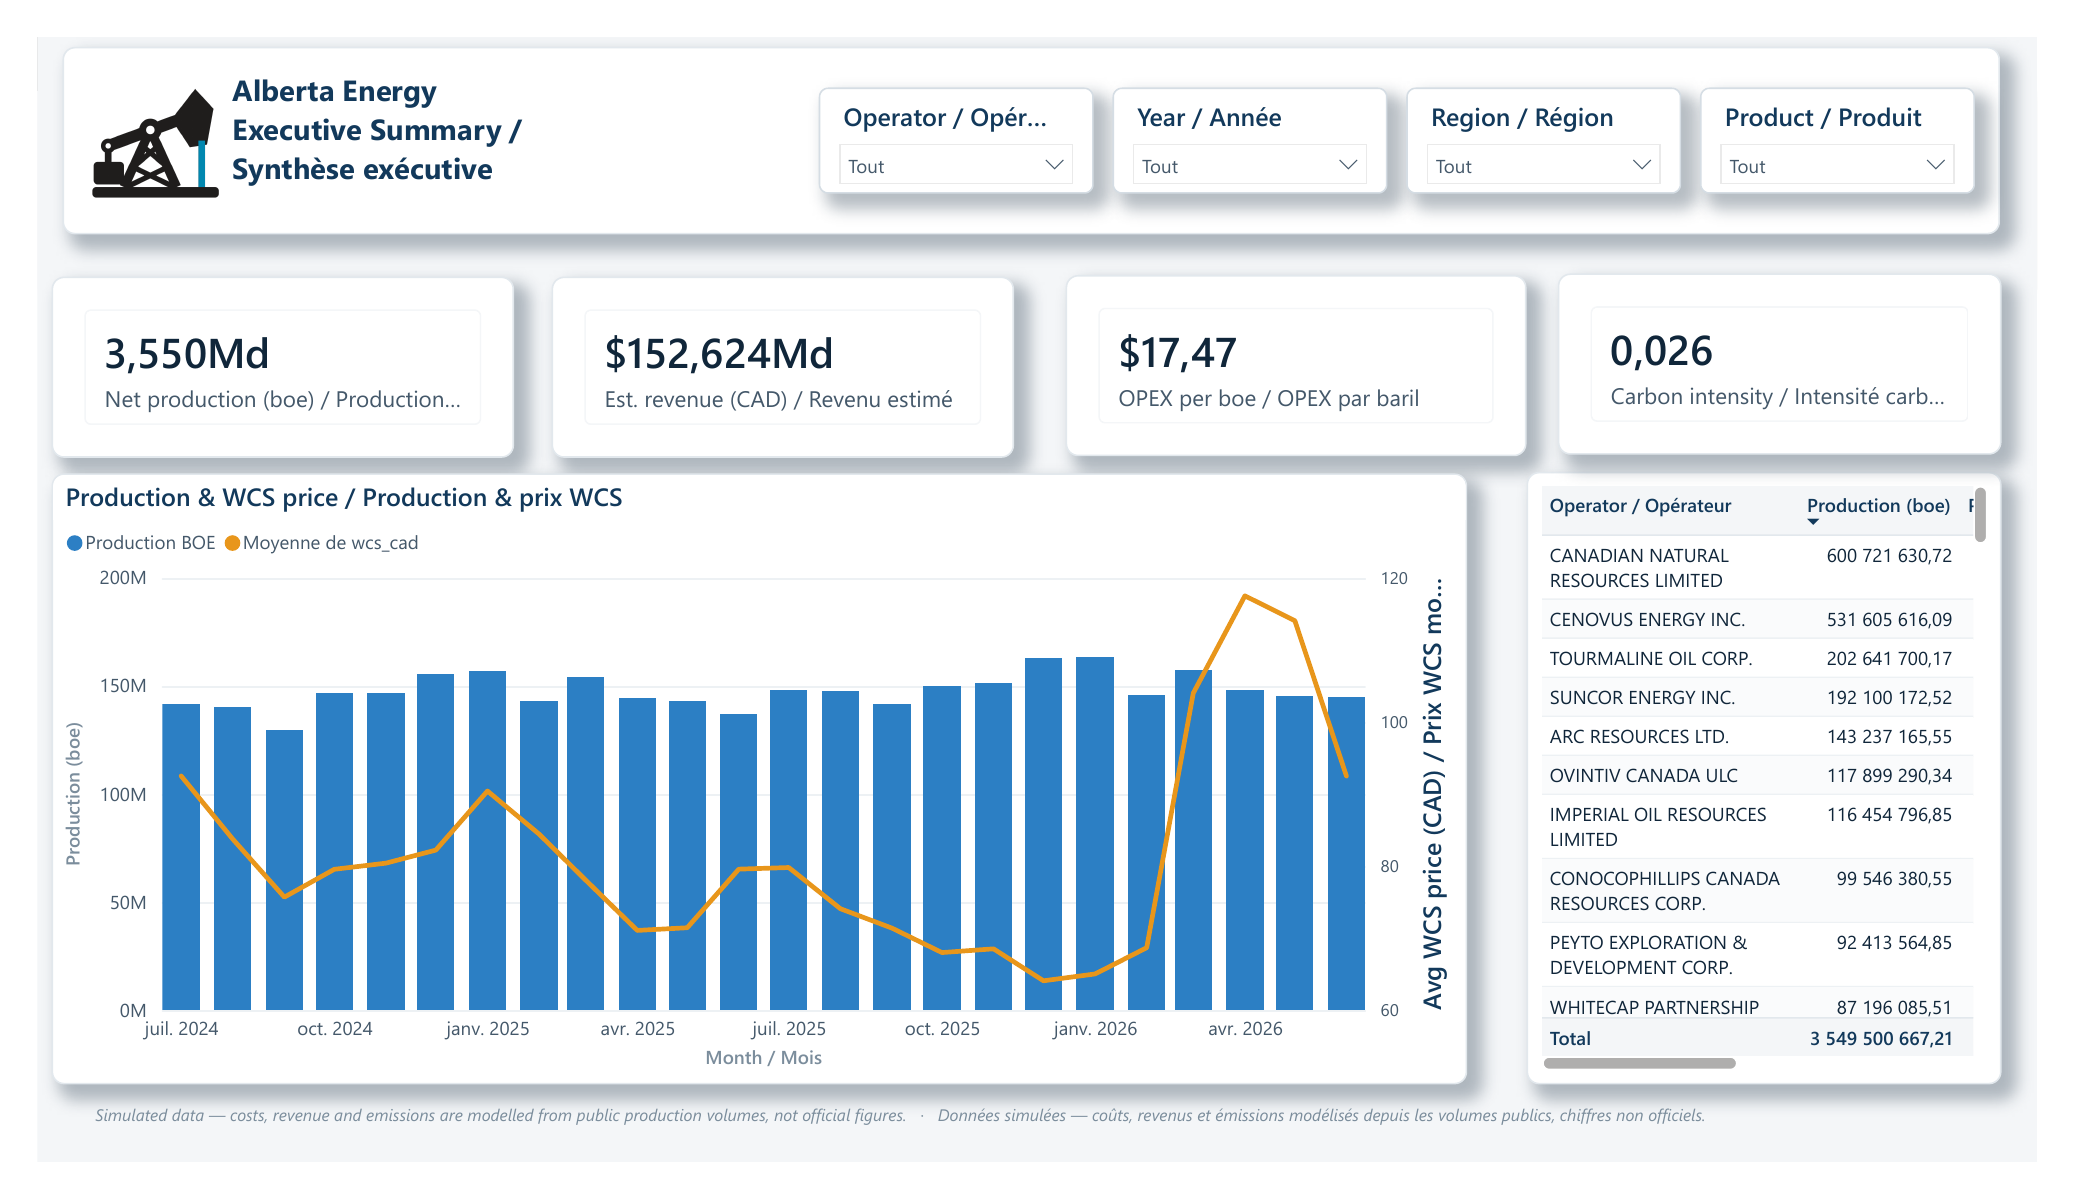
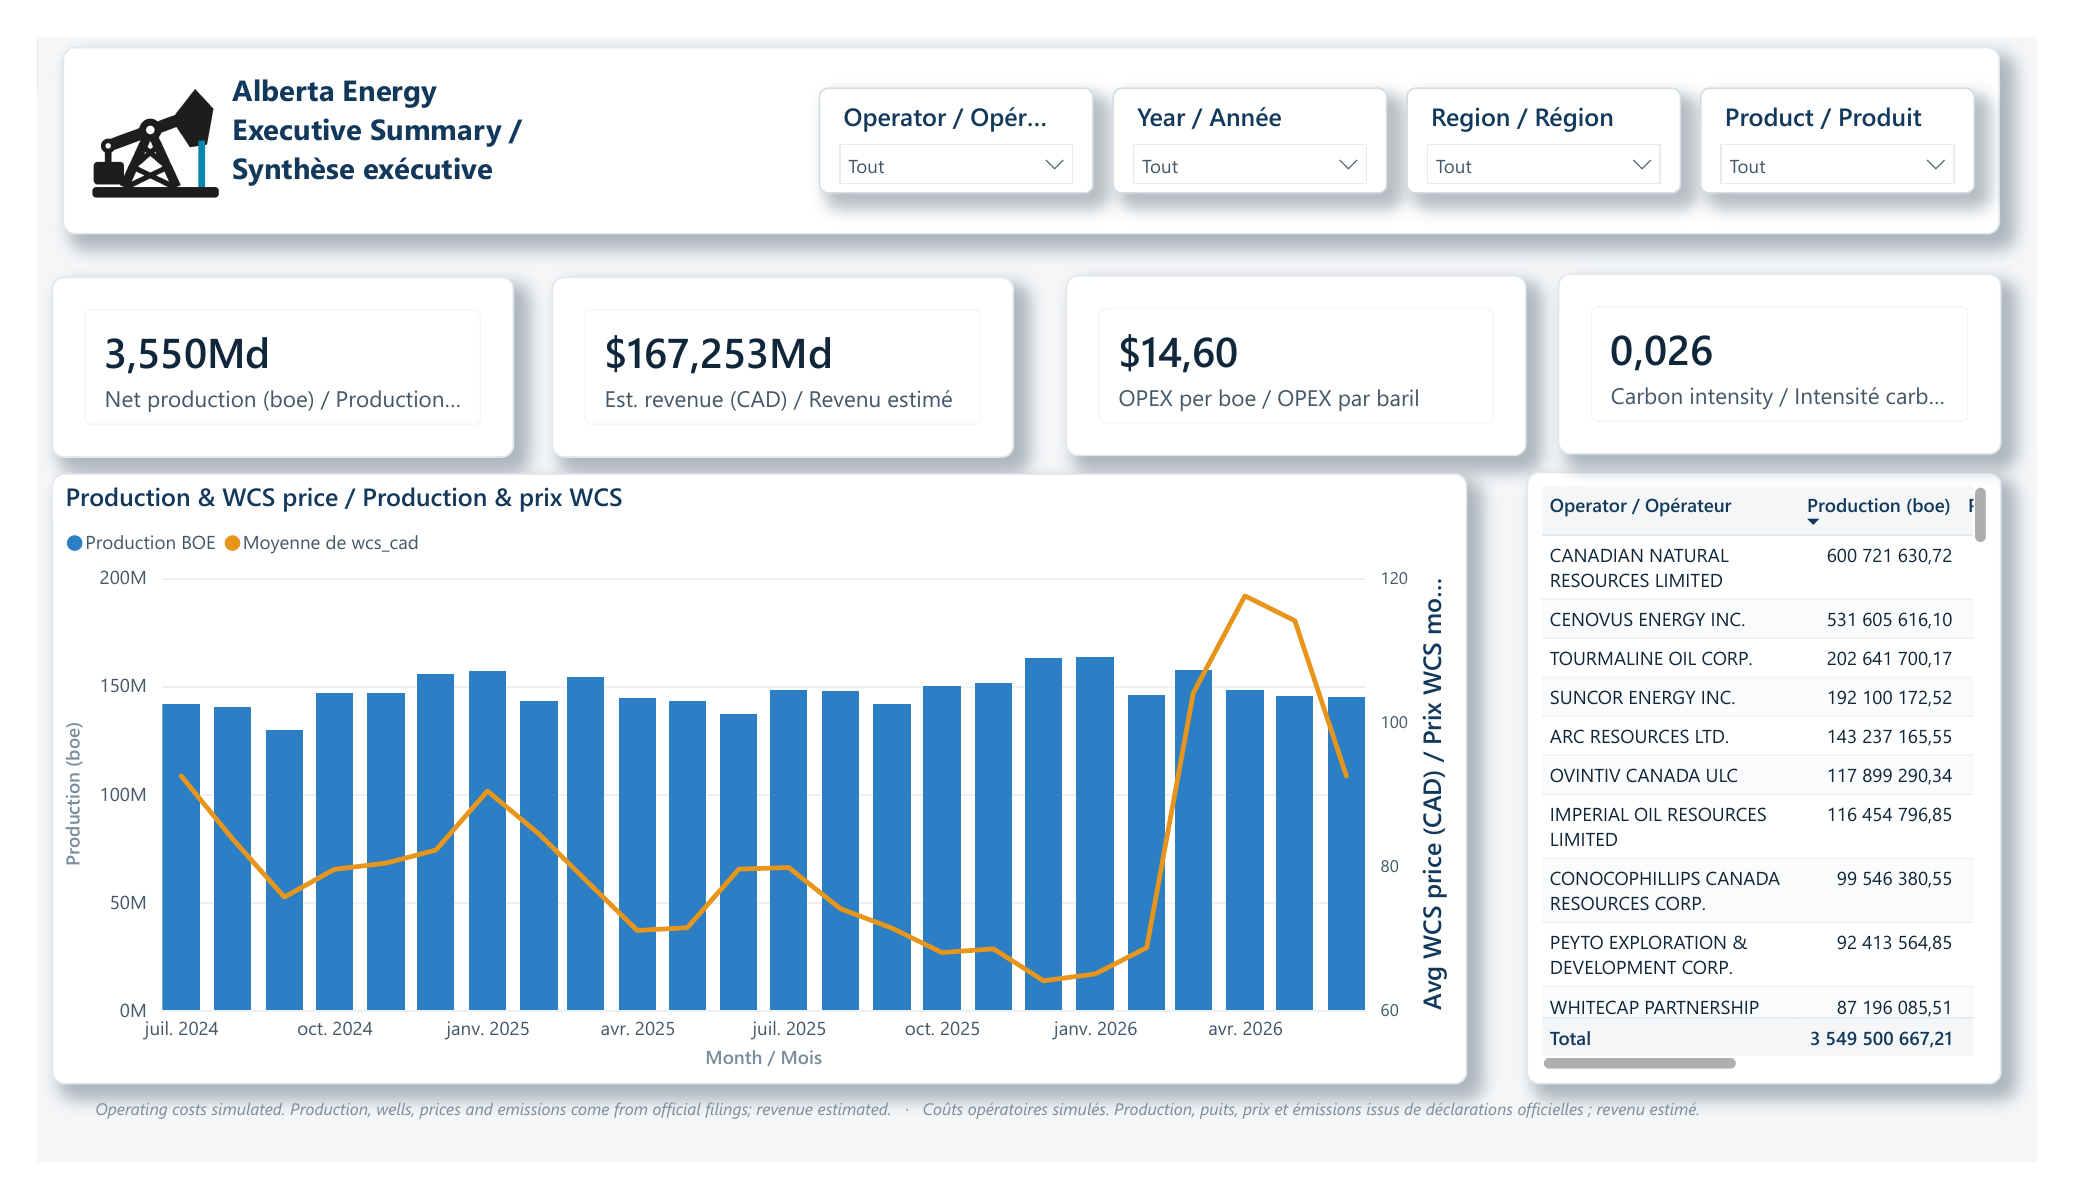
docs: refresh the screenshots against the fixed report
All five pages regenerated from a clean export: gas revenue in, cost split by
product, both ESG cards on the same fact, and the disclaimer no longer clipping
or sitting on top of page 2.

Two figures were off by a rounding step against the cards they sit beside. OPEX
per barrel is 14.597, which the card rounds to $14.60 while the README carried
$14.59. The test badge still claimed 42 checks; dbt build now runs 47 and passes
46, the remaining warning being the 24 known orphaned UWIs.

diff --git a/README.md b/README.md
@@ -8,7 +8,7 @@ modelled into a star schema, and reported in Power BI.
 ![dbt](https://img.shields.io/badge/dbt-1.11-FF694B?logo=dbt&logoColor=white)
 ![DuckDB](https://img.shields.io/badge/DuckDB-1.10-FFF000?logo=duckdb&logoColor=black)
 ![Power BI](https://img.shields.io/badge/Power%20BI-PBIP-F2C811?logo=powerbi&logoColor=black)
-![Tests](https://img.shields.io/badge/dbt%20build-42%20pass%20%C2%B7%200%20error-2E7D32)
+![Tests](https://img.shields.io/badge/dbt%20build-46%20pass%20%C2%B7%200%20error-2E7D32)
 
 ![Executive summary page of the Power BI report](docs/screenshots/p1_executive.png)
 
@@ -16,7 +16,7 @@ modelled into a star schema, and reported in Power BI.
 |---|---|---|
 | **3.55 Bn boe** produced | **599,275** wells on the register | **3,016** operators |
 | **24 months** of filings | **148,693** producing wells | **4.34M** fact rows |
-| **CAD 167.3 Bn** revenue | **$14.59** OPEX per barrel | **91.2 Mt** Scope 1 CO₂ |
+| **CAD 167.3 Bn** revenue | **$14.60** OPEX per barrel | **91.2 Mt** Scope 1 CO₂ |
 
 Production volumes, prices and well locations are real. Emissions are computed from the
 fuel, vent and flare volumes operators declare to Petrinex, using NIR annex 6 and AER

diff --git a/docs/DOCUMENTATION.md b/docs/DOCUMENTATION.md
@@ -85,7 +85,7 @@ from (well, month) pairs producing both gas and liquids, where one rate would ha
 an average rather than a cost.
 
 Resulting volume-weighted OPEX/boe: **$6.56 for gas, $21.81 for oil, $21.74 for
-condensate**. $14.59 overall.
+condensate**. $14.60 overall.
 
 **CAPEX is illustrative and not calibrated.** It lands near $33k per well against a real
 $2 to 8 million. It is not surfaced in the report.
@@ -268,7 +268,7 @@ couples (puits, mois) produisant à la fois du gaz et des liquides, où un tarif
 aurait été une moyenne et non un coût.
 
 OPEX/boe pondéré obtenu : **6,56 $ pour le gaz, 21,81 $ pour le pétrole, 21,74 $ pour le
-condensat**. Au global 14,59 $.
+condensat**. Au global 14,60 $.
 
 **Le CAPEX est illustratif et non calibré.** Il tombe autour de 33 k$ par puits contre 2 à
 8 M$ réels. Il n'apparaît nulle part dans le rapport, et sa mesure DAX a été retirée du
